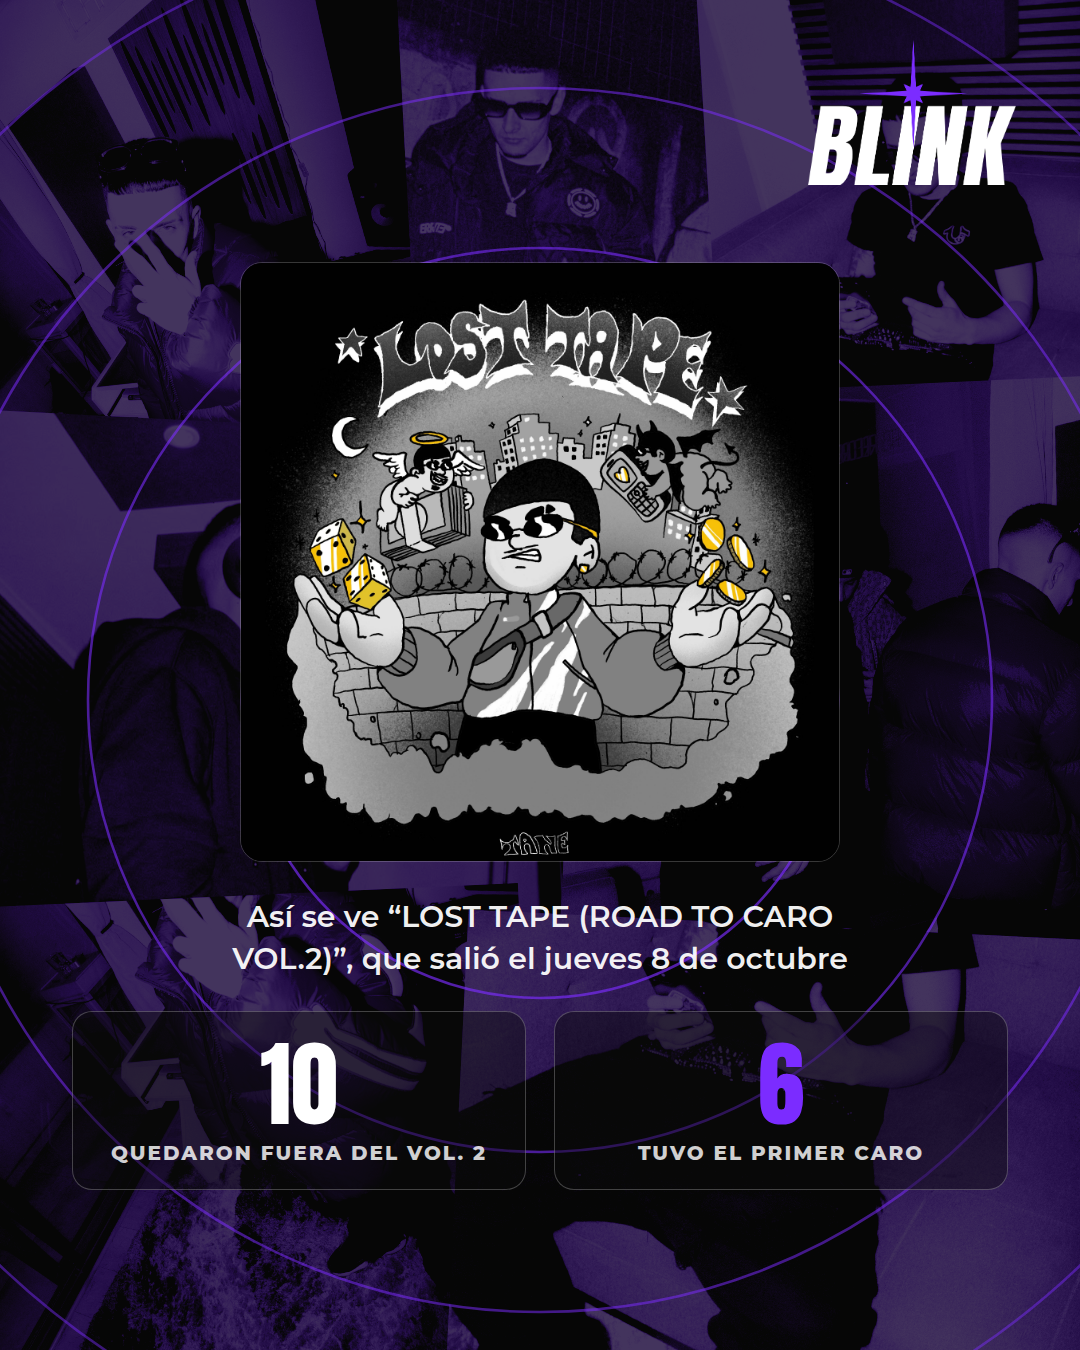
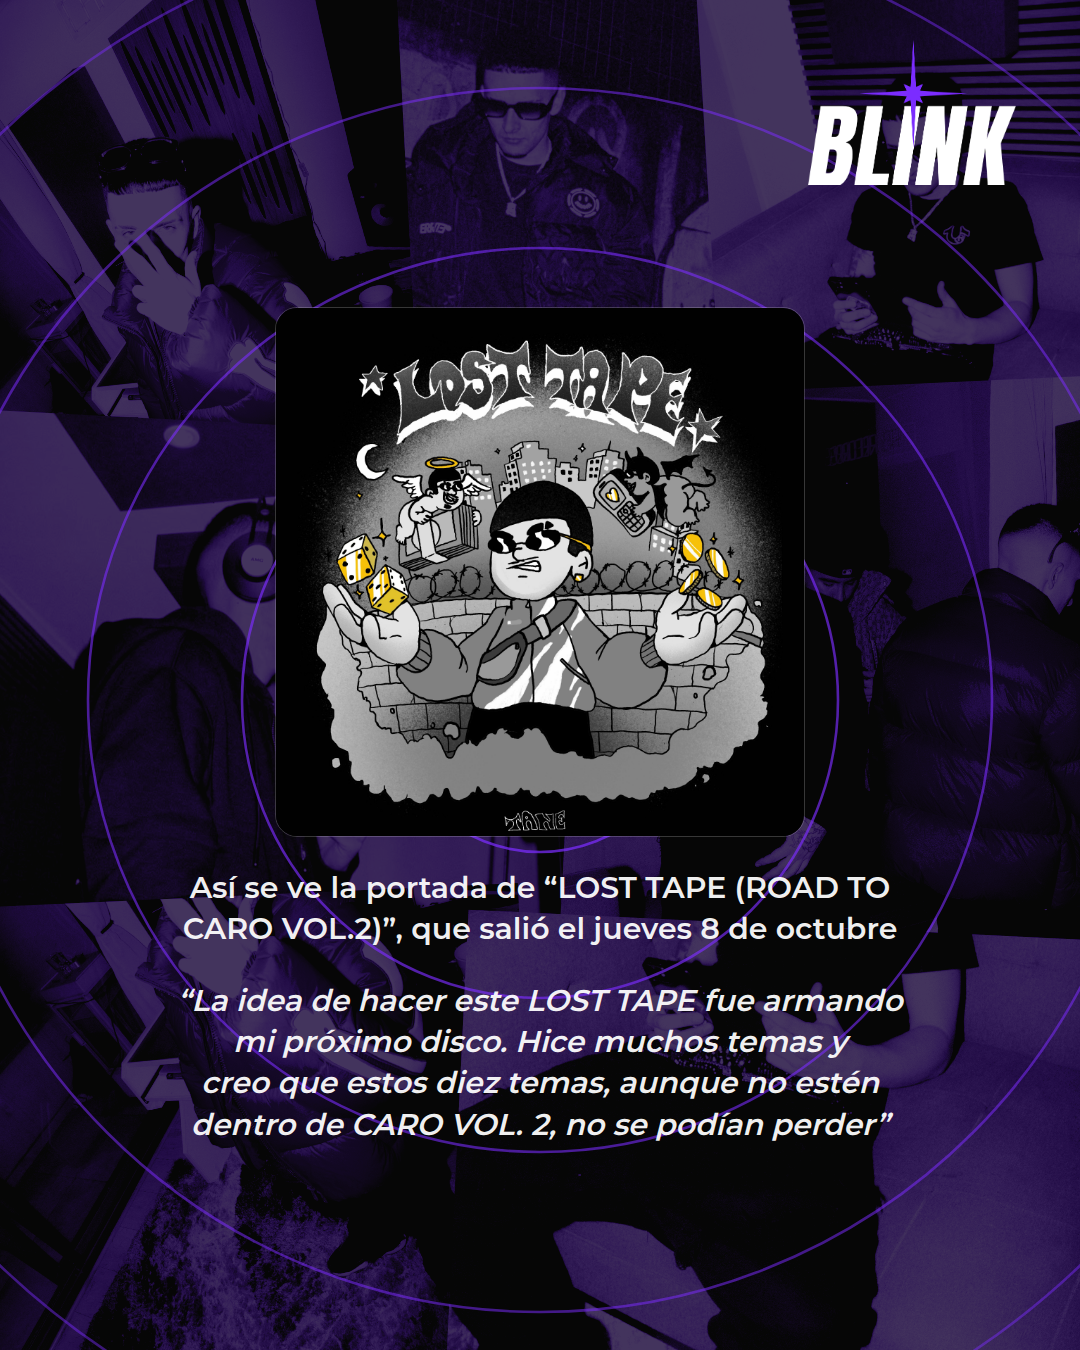
Blink Radar TANE: casete de verdad, portada centrada y una lámina menos
Correcciones de Mia:
- La portada ahora va centrada en el alto; estaba apoyada abajo.
- La cinta de VHS pasa a ser un casete dibujado —carcasa, etiqueta, ventana y
  carretes—. La tira con perforaciones "parecía muy de Canva".
- En el casete van solo fotos de estudio.
- La lámina de la portada del disco absorbe la cita y pierde las cifras, así
  que el carrusel queda en ocho láminas. La cita va más chica y en cursiva.
- Todo lo que dijo el artista va en cursiva, también dentro de un párrafo.
- En la lámina de los acompañantes se va la foto alargada entre dos textos:
  el texto completo arriba y dos fotos del mismo tamaño abajo.

Claude-Session: https://claude.ai/code/session_01NF4PN4Z1tGA2GQg6PseM5W

Changed region(s): [[0.0917, 0.1867, 0.9472, 0.9022], [0.0611, 0.8089, 0.0917, 0.84]]

diff --git a/radar-tane.html b/radar-tane.html
@@ -36,9 +36,9 @@
   .fondo .velo{
     position:absolute; inset:0;
     background:linear-gradient(180deg,
-      rgba(10,10,10,.88) 0%,  rgba(10,10,10,.30) 15%,
-      rgba(10,10,10,.14) 36%, rgba(10,10,10,.52) 56%,
-      rgba(10,10,10,.76) 74%, rgba(10,10,10,.82) 100%);
+      rgba(10,10,10,.88) 0%,  rgba(10,10,10,.32) 14%,
+      rgba(10,10,10,.22) 28%, rgba(10,10,10,.56) 44%,
+      rgba(10,10,10,.70) 62%, rgba(10,10,10,.78) 100%);
   }
   .lamina.interior .fondo img{ filter:grayscale(1) contrast(1.18) brightness(.54); }
   .lamina.interior .fondo .velo{ background:rgba(10,10,10,.60); }
@@ -64,7 +64,12 @@
   }
 
   /* ------------------------------------------- el centro de la portada */
-  .centro{ position:absolute; z-index:5; left:72px; right:72px; bottom:252px; text-align:center; }
+  .centro{
+    position:absolute; z-index:5; left:72px; right:72px; top:0; bottom:0;
+    padding:230px 0 220px;
+    display:flex; flex-direction:column; justify-content:center;
+    text-align:center;
+  }
   .centro .genero{
     font-weight:800; font-size:27px; letter-spacing:8px;
     color:var(--morado); text-transform:uppercase; margin-bottom:20px;
@@ -128,35 +133,63 @@
   }
   .conFoto .carta img{ width:100%; height:100%; object-fit:cover; object-position:50% 24%; }
 
-  .cartaAncha{
-    width:100%; height:340px; overflow:hidden;
+  .parDeFotos{ display:flex; gap:26px; }
+  .parDeFotos figure{
+    flex:1; height:316px; overflow:hidden;
     border:5px solid rgba(255,255,255,.94); border-radius:3px;
-    transform:rotate(-1.4deg);
   }
-  .cartaAncha img{ width:100%; height:100%; object-fit:cover; object-position:50% 40%; }
+  .parDeFotos figure:first-child{ transform:rotate(-1.8deg); }
+  .parDeFotos figure:last-child{ transform:rotate(1.8deg); }
+  .parDeFotos img{ width:100%; height:100%; object-fit:cover; }
+  .parDeFotos figure:first-child img{ object-position:50% 40%; }
+  .parDeFotos figure:last-child img{ object-position:50% 34%; }
 
-  /* La tira de VHS: la cinta con sus perforaciones y cuatro ventanas. */
+  /* El casete: carcasa, etiqueta arriba, ventana con la cinta y los carretes. */
   .cinta{
-    transform:rotate(-1.6deg);
-    background:rgba(10,10,10,.82);
-    border:1.5px solid rgba(255,255,255,.26);
-    border-radius:12px;
-    padding:16px;
+    transform:rotate(-1.2deg);
+    background:linear-gradient(180deg, #1A1620 0%, #0C0A10 100%);
+    border:2px solid rgba(255,255,255,.16);
+    border-radius:16px;
+    padding:20px 22px 18px;
   }
-  .cinta .dientes{
-    height:16px;
-    background:repeating-linear-gradient(90deg,
-      rgba(255,255,255,.34) 0 16px, transparent 16px 40px);
-    border-radius:3px;
+  .cinta .etiqueta{
+    display:flex; align-items:center; justify-content:space-between; gap:16px;
+    background:rgba(255,255,255,.92); border-radius:5px; padding:11px 18px;
   }
-  .cinta .ventanas{ display:flex; gap:12px; margin:14px 0; }
-  .cinta .ventanas div{ flex:1; height:188px; overflow:hidden; border-radius:4px; }
-  .cinta .ventanas img{ width:100%; height:100%; object-fit:cover; filter:saturate(.5); }
-  .cinta .nombre{
-    margin-top:4px; text-align:center;
-    font-weight:800; font-size:19px; letter-spacing:4px;
-    color:rgba(255,255,255,.70); text-transform:uppercase;
+  .cinta .etiqueta b{
+    font-weight:800; font-size:19px; letter-spacing:2.6px;
+    color:#0A0A0A; text-transform:uppercase;
   }
+  .cinta .etiqueta i{
+    font-style:normal; font-weight:800; font-size:16px; letter-spacing:2.6px;
+    color:rgba(10,10,10,.52); text-transform:uppercase;
+  }
+  .cinta .ventana{
+    margin-top:18px; display:flex; gap:14px;
+    background:#000; border:1px solid rgba(255,255,255,.14);
+    border-radius:9px; padding:13px;
+  }
+  .cinta .ventana div{ flex:1; height:210px; overflow:hidden; border-radius:3px; }
+  .cinta .ventana img{ width:100%; height:100%; object-fit:cover; }
+  .cinta .carretes{
+    margin-top:16px; display:flex; align-items:center; justify-content:space-between;
+    padding:0 42px;
+  }
+  .cinta .carrete{
+    width:46px; height:46px; border-radius:50%;
+    border:3px solid rgba(255,255,255,.26); position:relative;
+  }
+  .cinta .carrete::after{
+    content:""; position:absolute; inset:13px; border-radius:50%;
+    background:rgba(255,255,255,.26);
+  }
+  .cinta .marca{
+    font-weight:800; font-size:17px; letter-spacing:5px;
+    color:rgba(255,255,255,.46);
+  }
+  /* Todo lo que dijo el artista va en cursiva. */
+  .dijo{ font-style:italic; }
+  .citaChica{ font-weight:500; font-size:27px; line-height:1.4; color:rgba(255,255,255,.88); }
 
   /* las cifras, en cajas */
   .cifras{ display:flex; gap:28px; }
@@ -173,9 +206,9 @@
   }
 
   /* la portada del disco */
-  .disco{ display:flex; flex-direction:column; align-items:center; gap:34px; }
+  .disco{ display:flex; flex-direction:column; align-items:center; gap:30px; }
   .disco img{
-    width:600px; height:600px; border-radius:22px; display:block;
+    width:530px; height:530px; border-radius:22px; display:block;
     border:1.5px solid rgba(255,255,255,.20);
   }
   .disco p{
@@ -240,10 +273,14 @@ function titular(a, b){
 }
 
 function cinta(fotos, nombre){
-  return '<div class="cinta"><div class="dientes"></div><div class="ventanas">' +
-    fotos.map(f => '<div><img src="' + f + '" alt=""></div>').join("") +
-    '</div><div class="dientes"></div>' +
-    (nombre ? '<div class="nombre">' + nombre + '</div>' : '') + '</div>';
+  return '<div class="cinta">' +
+    '<div class="etiqueta"><b>' + nombre + '</b><i>VHS</i></div>' +
+    '<div class="ventana">' +
+      fotos.map(f => '<div><img src="' + f + '" alt=""></div>').join("") +
+    '</div>' +
+    '<div class="carretes"><div class="carrete"></div>' +
+      '<div class="marca">TANE</div><div class="carrete"></div></div>' +
+  '</div>';
 }
 
 const LAMINAS = {
@@ -282,10 +319,10 @@ const LAMINAS = {
       '<p class="texto">CARO es la serie numerada con la que TANE viene ordenando todo ' +
       'lo que publica, y lleva el mismo nombre que su estudio. El primer volumen salió ' +
       'en diciembre de 2023 con seis canciones, y del segundo él dijo que iba a tener ' +
-      '“una propuesta un poco más seria”.</p>' +
+      '<span class="dijo">“una propuesta un poco más seria”</span>.</p>' +
       '<div class="destacado">' + DESTELLO +
-        '<p>Que la serie siga también es decisión suya: “Caro 2, 3, 4, 5, todos los ' +
-        'que saquemos”</p>' +
+        '<p>Que la serie siga también es decisión suya: <span class="dijo">“Caro 2, ' +
+        '3, 4, 5, todos los que saquemos”</span></p>' +
       '</div>' +
     '</div>' },
 
@@ -296,49 +333,38 @@ const LAMINAS = {
       'todavía no sale. Mientras lo armaba grabó muchas más canciones de las que ' +
       'cabían, y diez quedaron fuera de ese disco. En vez de dejarlas guardadas las ' +
       'reunió en una cinta aparte, presentada en formato VHS.</p>' +
-      cinta(["TANE 1.png", "TANE 7.JPEG", "TANE 9.JPEG", "TANE 8.JPEG"],
+      cinta(["TANE 2.png", "TANE 8.JPEG", "TANE 7.JPEG"],
             "Lost Tape · Road to Caro Vol.2") +
     '</div>' },
 
   5: { html:
     '<div class="cuerpo">' +
       '<div class="disco"><img src="PORTADA TANE.jpg" alt="">' +
-        '<p>Así se ve “LOST TAPE (ROAD TO CARO VOL.2)”, que salió el jueves 8 de octubre</p>' +
-      '</div>' +
-      '<div class="cifras">' +
-        '<div class="caja"><div class="numero">10</div>' +
-          '<div class="que">quedaron fuera del VOL. 2</div></div>' +
-        '<div class="caja morada"><div class="numero">6</div>' +
-          '<div class="que">tuvo el primer CARO</div></div>' +
+        '<p>Así se ve la portada de “LOST TAPE (ROAD TO CARO VOL.2)”, que salió el ' +
+        'jueves 8 de octubre</p>' +
+        '<p class="citaChica dijo">“La idea de hacer este LOST TAPE fue armando mi ' +
+        'próximo disco. Hice muchos temas y creo que estos diez temas, aunque no ' +
+        'estén dentro de CARO VOL. 2, no se podían perder”</p>' +
       '</div>' +
     '</div>' },
 
   6: { html:
     '<div class="cuerpo">' +
-      titular("Por qué no las", "dejó guardadas") +
-      '<p class="texto">Él lo explicó así cuando salió el disco:</p>' +
-      '<div class="destacado">' + DESTELLO +
-        '<p>“La idea de hacer este LOST TAPE fue armando mi próximo disco. Hice muchos ' +
-        'temas y creo que estos diez temas, aunque no estén dentro de CARO VOL. 2, ' +
-        'no se podían perder”</p>' +
-      '</div>' +
-    '</div>' },
-
-  7: { html:
-    '<div class="cuerpo">' +
       titular("Los que acompañan", "a TANE en LOST TAPE") +
       '<p class="texto">Cantan con él Baby Jey, Jamez Manuel, Kuroh, ALBLACK, Poison ' +
       'Kid, Pablo Diablo y el mexicano Sleezy O. Cinco de ellos ya habían estado en ' +
       'CARO VOL. 1, y buena parte del disco se grabó en La Sede, la casa-estudio que ' +
-      'se armó en pandemia y donde TANE vivió con varios.</p>' +
-      '<div class="cartaAncha"><img src="TANE 9.JPEG" alt=""></div>' +
-      '<p class="texto">La producción la firma él mismo junto a Loose, Killua97 y ' +
-      'Discan.</p>' +
+      'se armó en pandemia y donde TANE vivió con varios. La producción la firma él ' +
+      'mismo junto a Loose, Killua97 y Discan.</p>' +
+      '<div class="parDeFotos">' +
+        '<figure><img src="TANE 9.JPEG" alt=""></figure>' +
+        '<figure><img src="TANE 5.JPEG" alt=""></figure>' +
+      '</div>' +
     '</div>' },
 
-  8: { html:"" },
+  7: { html:"" },
 
-  9: { html:
+  8: { html:
     '<div class="cierre">' +
       '<div class="remate">Síguenos<em>para más</em></div>' +
       '<div class="cuenta">@blinkmediacl</div>' +

diff --git a/CLAUDE.md b/CLAUDE.md
@@ -300,6 +300,10 @@ difusa. No devolverla a 400. Si se cambia el peso, hay que cambiarlo también en
 la fuente con la que se **mide** para repartir las líneas, o el texto se pasa de
 ancho al pintarlo.
 
+**Todo lo que dijo el artista va en cursiva.** Vale para la cita completa y
+para una frase suya metida dentro de un párrafo. Es lo que separa de un vistazo
+su voz de la nuestra.
+
 **Reglas que Mia marcó como intocables:**
 - **Nunca cambiar la tipografía oficial.** Ni por legibilidad.
 - **Nunca ponerle borde, sombra ni contorno al texto.** Si algo no se lee, se
@@ -393,8 +397,15 @@ publicación. La base viene del Radar de Kittkatta y es así:
 - **El tinte morado va al 68%, no más.** Si se pasa, el fondo se aplana y deja
   de distinguirse el radar, que es justo lo que le da el nombre al formato.
 - **Algunas láminas llevan fotos encima del fondo**, para que no sean puro
-  texto. Pero con una idea detrás, no de relleno: la tira de VHS con cuatro
-  ventanas va en la lámina que explica que el disco salió en ese formato.
+  texto. Pero con una idea detrás, no de relleno: el casete de VHS —carcasa,
+  etiqueta arriba, ventana con tres fotos y los dos carretes— va en la lámina
+  que explica que el disco salió en ese formato. Mia rechazó una primera
+  versión hecha de tiras con perforaciones: "parece muy de Canva, se ve pobre".
+  Si el objeto existe de verdad, hay que dibujarlo como es.
+- **Las fotos van agrupadas y proporcionales, nunca intercaladas.** Texto,
+  imagen gigante, texto otra vez se ve saturado. O la foto va al lado de la
+  columna de texto, o van dos del mismo tamaño debajo de todo el texto.
+- **En la portada todo va centrado y al medio del alto**, no apoyado abajo.
 
 El código está en `radar-tane.html`, y el collage del fondo en
 `radar-tane-collage.html`.
